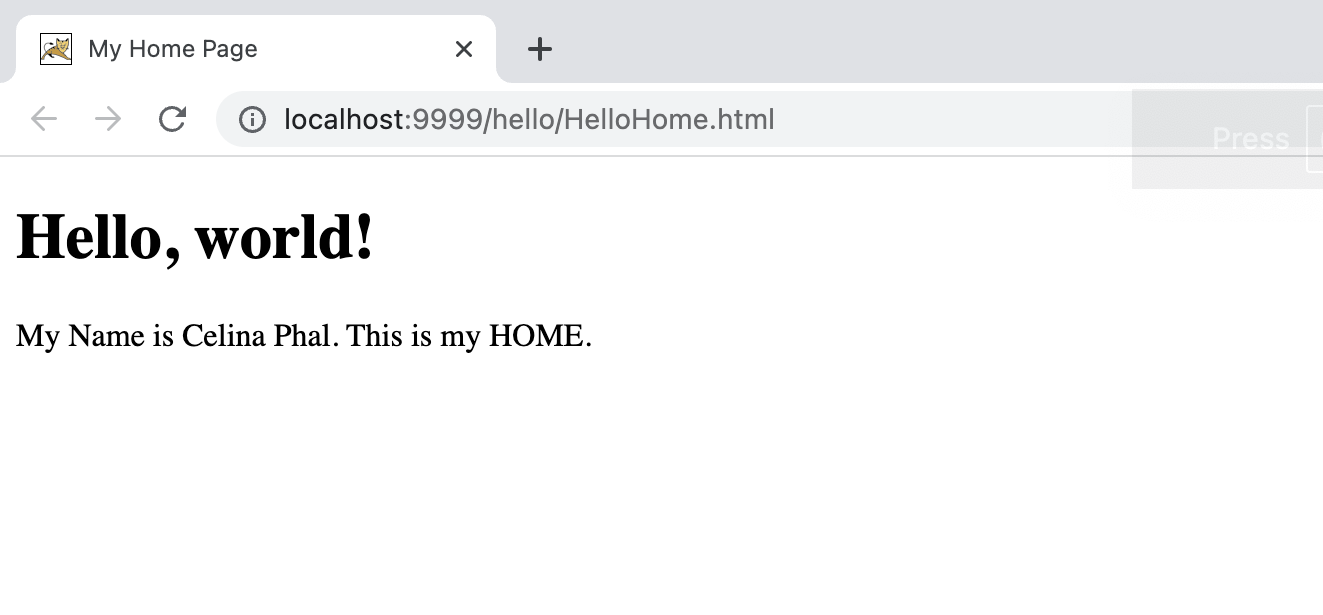
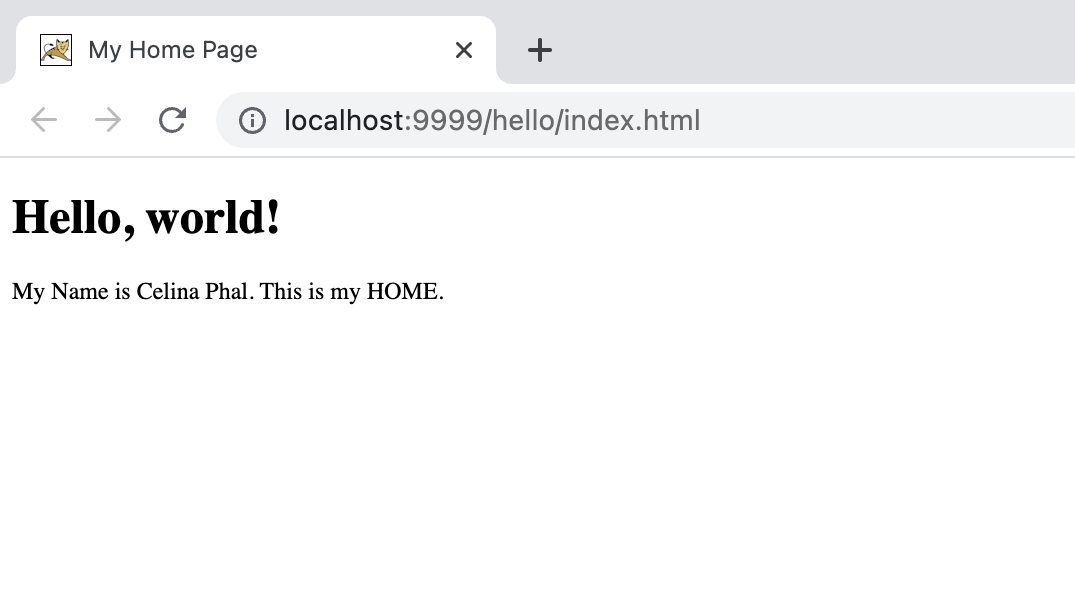
a2

diff --git a/a2/README.md b/a2/README.md
@@ -18,7 +18,7 @@ LIS4368: Advanced Web App Development
 *Screenshot of running [http://localhost:9999/hello](http://localhost:9999/hello)*:
     ![img](img/img1.png)
 
-*Screenshot of running [http://localhost:9999/hello/HelloHome.html](http://localhost:9999/hello/HelloHome.html)*:
+*Screenshot of running [http://localhost:9999/hello/index.html](http://localhost:9999/hello/index.html)*:
     ![img](img/img2.png)
 
 *Screenshot of running [http://localhost:9999/hello/sayhello](http://localhost:9999/hello/sayhello)*:
